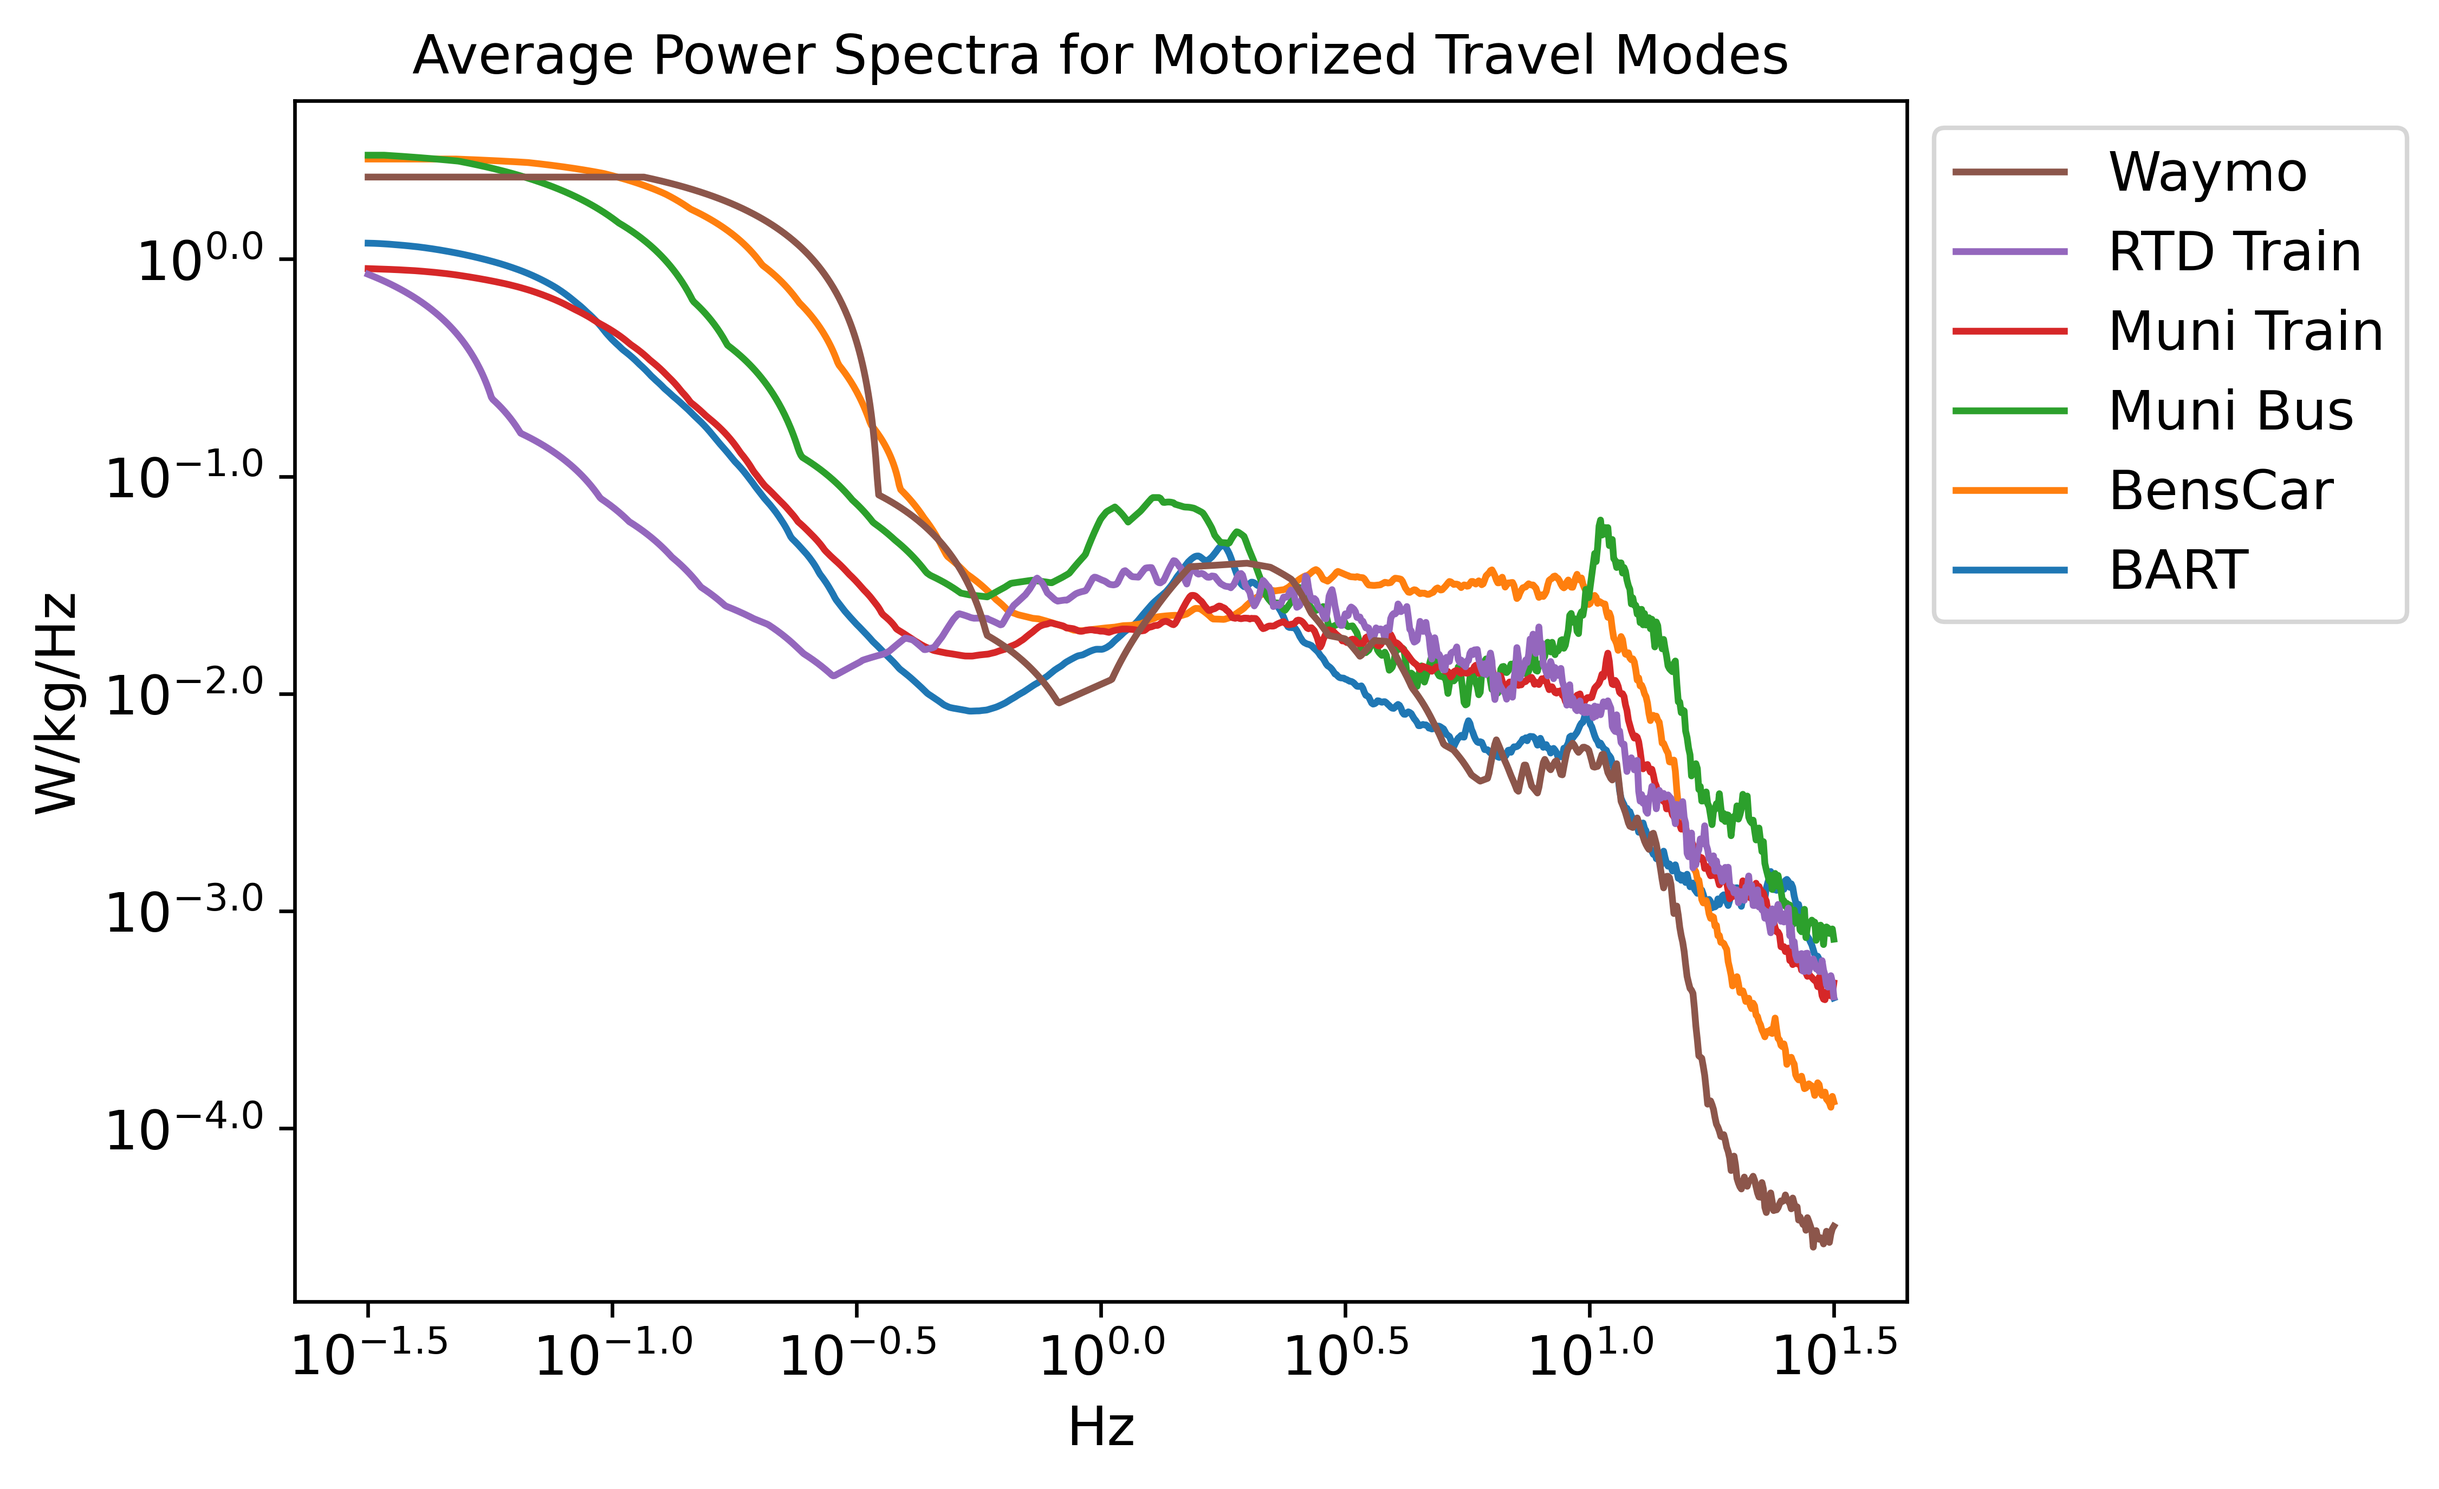
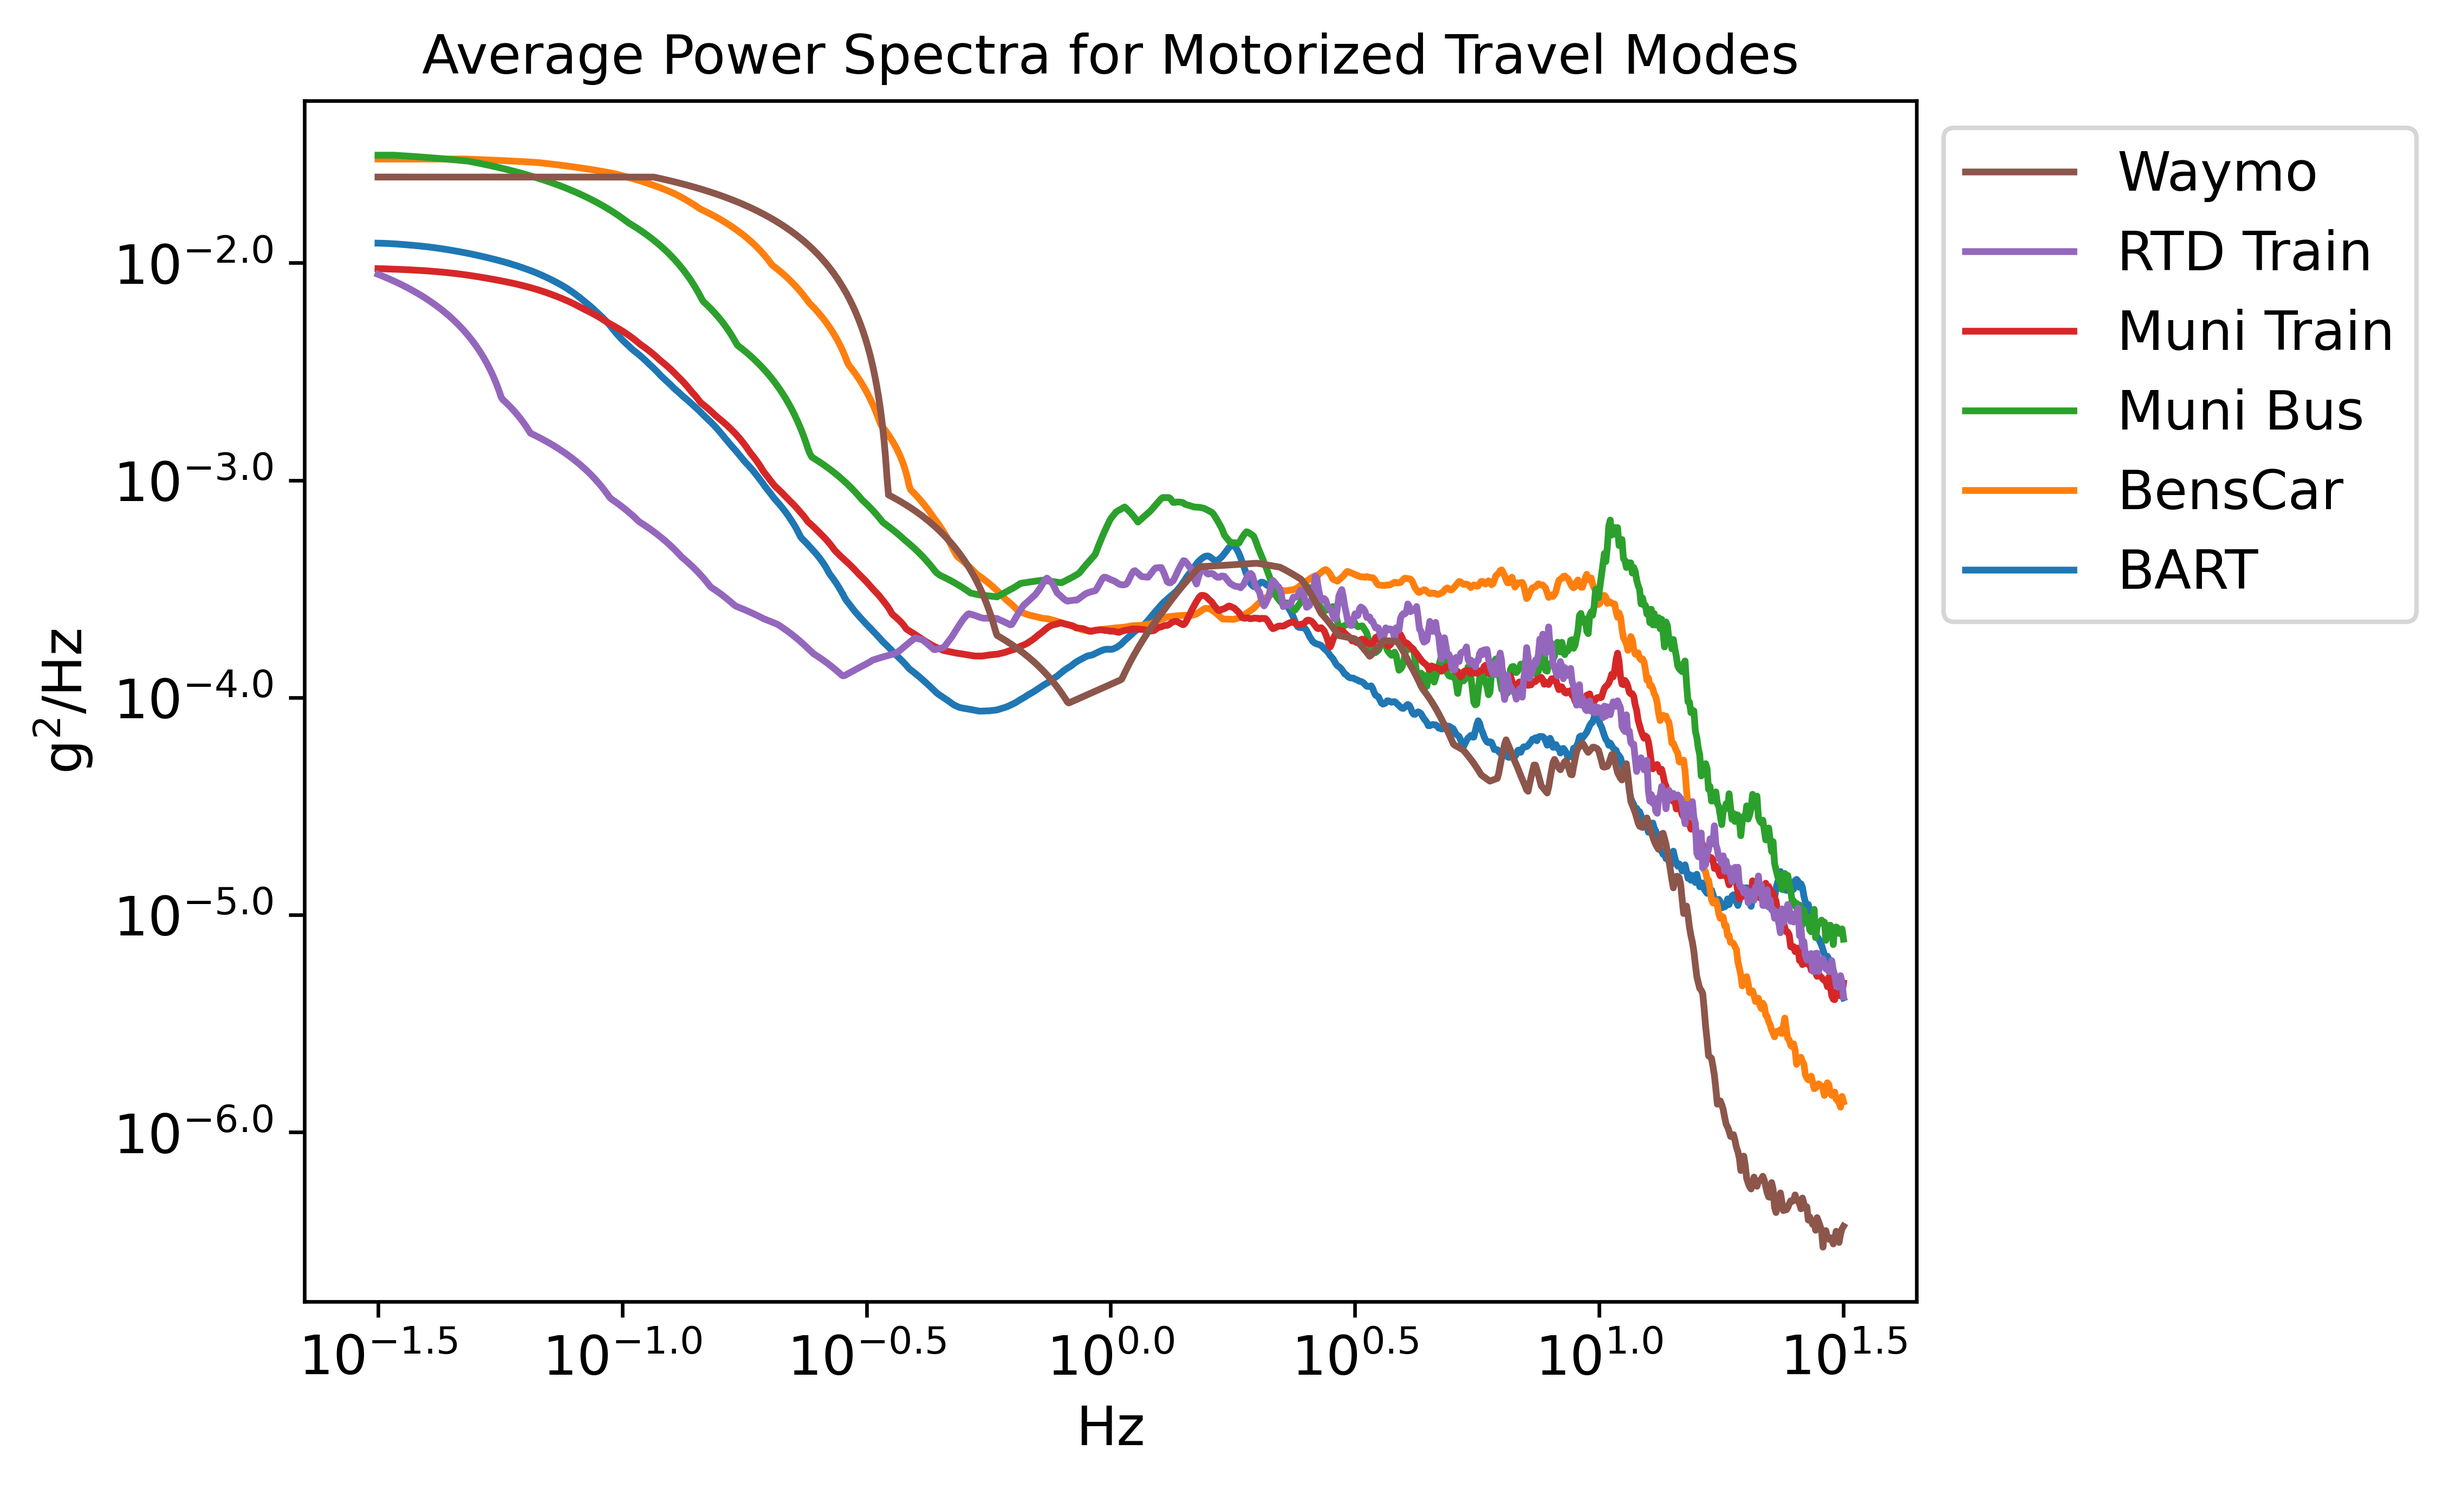
Update units to g^2/Hz

diff --git a/analyze_functionalized.py b/analyze_functionalized.py
@@ -52,7 +52,7 @@ for file in files:
     if not pathlib.Path(outputdir / (title + '.png')).exists():
         ps_smoothed = accelerometers.smooth(ps, smooth_window=smooth_when_plot)
         plt.figure()
-        plot_util.generic_plot(np.log10(ps_smoothed[accelerometers.POWER_LABEL]), kind='line', xlabel='Hz', ylabel='W/kg/Hz', logy=True,
+        plot_util.generic_plot(np.log10(ps_smoothed[accelerometers.POWER_LABEL]), kind='line', xlabel='Hz', ylabel='g$^2$/Hz', logy=True,
                                title=title, output_directory=outputdir)
         plt.close()
 
@@ -68,7 +68,7 @@ for file in files:
     tot_pow_collection[title] = total_pow
     g_collection[title] = df['g-force'].mean()
 
-    print('Total Power: ' + str(round(total_pow, 2)) + ' W/kg')
+    print('Total Power (variance of acceleration): ' + str(round(total_pow, 4)) + ' g^2')
     print('Mean g-force: ' + str(df['g-force'].mean().round(2)) + " g's")
 
 print(len(ps_collection))
@@ -77,10 +77,10 @@ combined = accelerometers.interp_combine(ps_collection)
 
 combined.to_csv(outputdir / 'Combined.csv')
 
-agg_stats_df = pd.DataFrame(index=['Power [W/kg]', 'g-force [-]'], columns=combined.columns)
+agg_stats_df = pd.DataFrame(index=['Power [g^2]', 'g-force [-]'], columns=combined.columns)
 idx = pd.IndexSlice
 for col in combined:
-    agg_stats_df.loc[idx['Power [W/kg]'], idx[col[0], col[1]]] = tot_pow_collection[col[0] + accelerometers.DELIMITTER + col[1]]
+    agg_stats_df.loc[idx['Power [g^2]'], idx[col[0], col[1]]] = tot_pow_collection[col[0] + accelerometers.DELIMITTER + col[1]]
     agg_stats_df.loc[idx['g-force [-]'], idx[col[0], col[1]]] = g_collection[col[0] + accelerometers.DELIMITTER + col[1]]
 print(agg_stats_df.T)
 
@@ -94,7 +94,7 @@ print(combined.groupby('Category', axis=1).count().T[combined.index[0]])
 # Equivalent to geometric rather than arithmetic mean
 # Smooth after averaging
 combined_bycat_log = accelerometers.smooth(combined.map(np.log10).groupby('Category', axis=1).mean(), smooth_when_plot)
-plot_util.generic_plot(combined_bycat_log.rename(np.log10, axis=0), kind='line', xlabel='Hz', ylabel='W/kg/Hz',
+plot_util.generic_plot(combined_bycat_log.rename(np.log10, axis=0), kind='line', xlabel='Hz', ylabel='g$^2$/Hz',
                        output_directory=outputdir, title='Average Power Spectra by Mode', logx=True, logy=True)
 
 grouped_stats = agg_stats_df.T.groupby(level=0).mean()
@@ -106,10 +106,10 @@ z_grouped_stats = (agg_stats_df.T.groupby(level=0).std() / agg_stats_df.T.groupb
 z_grouped_stats.to_csv(outputdir / 'Z for Grouped Agg Stats by Trip.csv')
 print(z_grouped_stats)
 
-# Summary chart using frequency ranges
+# Summary chart: rms acceleration
 pow_seg = accelerometers.pow_range(combined_bycat_log)
-plot_util.generic_plot(pow_seg.map(np.log10).T, kind='bar', ylabel='W/kg', unstacked=True, title='Power by Freq. Range & Mode',
-                       output_directory=outputdir, logy=True, fontsize=9)
+plot_util.generic_plot(pow_seg.map(np.sqrt).T, kind='bar', ylabel='g', unstacked=True, title='RMS Acceleration by Freq. Range & Mode',
+                       output_directory=outputdir, fontsize=9)
 
 # Summarize by mode type
 # Currently used types of modes
@@ -120,15 +120,15 @@ for t in mode_types:
 
     # Separate chart for each type of mode
     plot_util.generic_plot(combined_bycat_log[modes].rename(np.log10, axis=0), kind='line',
-                           xlabel='Hz', ylabel='W/kg/Hz', output_directory=outputdir,
+                           xlabel='Hz', ylabel='g$^2$/Hz', output_directory=outputdir,
                            title='Average Power Spectra for ' + t + ' Travel Modes', logx=True, logy=True)
 
-    plot_util.generic_plot(pow_seg[modes].T, kind='bar', ylabel='W/kg', title='Power by Freq. Range for ' + t + ' Modes',
+    plot_util.generic_plot(pow_seg[modes].T, kind='bar', ylabel='g$^2$', title='Power by Freq. Range for ' + t + ' Modes',
                            output_directory=outputdir)
 
 # Average over mode type
 combined_bymode_type = combined_bycat_log.rename(accelerometers.mode_map, axis=1).groupby('Category', axis=1).mean()
-plot_util.generic_plot(combined_bymode_type.rename(np.log10, axis=0), kind='line', xlabel='Hz', ylabel='W/kg/Hz',
+plot_util.generic_plot(combined_bymode_type.rename(np.log10, axis=0), kind='line', xlabel='Hz', ylabel='g$^2$/Hz',
                        output_directory=outputdir, title='Average Power Spectra by Mode Type',
                        logx=True, logy=True)
 

diff --git a/accelerometers.py b/accelerometers.py
@@ -48,8 +48,8 @@ def ps(data, smooth_window=10):
     # data is a clean dataframe output from clean_file
     # returns dataframe with smoothed power spectrum
     # Index is frequency in Hz
-    # Vals are in units of W/kg/Hz
-    df = data[COORDS].apply(lambda x: np.abs(np.fft.rfft(x))**2)
+    # Vals are in units of g^2/Hz
+    df = data[COORDS].apply(lambda x: np.abs(np.fft.rfft(x/GRAV))**2)
 
     # Determine timestep
     steps = data.index[1:] - data.index[:-1]

diff --git a/writeup/TechNote.md b/writeup/TechNote.md
@@ -17,15 +17,14 @@ where $\vec{a}$ [m s $^{-2}$] is the vector linear acceleration  (over each spat
 
 ## Power spectrum
 
-The [power spectrum](https://en.wikipedia.org/wiki/Spectral_density) $S_\tau(f)$ [W kg $^{-1}$ s] at frequency $f$ for trip $\tau$ is:
+The [power spectrum](https://en.wikipedia.org/wiki/Spectral_density) $S_\tau(f)$ [s] at frequency $f$ for trip $\tau$ is:
 
 ```math
-S_\tau(f) = \frac{\Delta t^2}{T} \left(|\hat{a}_x(f)|^2 + |\hat{a}_y(f)|^2 + |\hat{a}_z(f)|^2\right) _\tau
+S_\tau(f) = \frac{\Delta t^2}{g^2T} \left(|\hat{a}_x(f)|^2 + |\hat{a}_y(f)|^2 + |\hat{a}_z(f)|^2\right) _\tau
 ```
 
 where $\hat{a}_{x,y,z}(f)$ is the Real [Discrete Fourier Transform](https://en.wikipedia.org/wiki/Discrete_Fourier_transform) of the acceleration for each spatial component, $\Delta t$ [s] is the timestep, and $T$ [s] is the trip duration. The Real Discrete Fourier Transform is evaluated using the _numpy_ functions "rfft" and "rfftfreq."
-
-To convert to commonly reported units for vibration analysis, divide this result by $g^2$ (about 100 in these units) to yield units of $\frac{g^2}{Hz}$.
+The units of $S$ can be interpreted as $\frac{g^2}{Hz}$, or contribution of  variance in normalized acceleration per unit frequency.
 
 ## Log-mean power spectrum
 
@@ -39,7 +38,7 @@ where $N_m$ is the number of trips $\tau$ for the mode $m$.
 
 ## Integrated power
 
-The integrated power $P$ [W kg $^{-1}$] from frequency $f_1$ to $f_2$ is:
+The integrated power $P$ [-] from frequency $f_1$ to $f_2$ is:
 
 ```math
 P = \int_{f_1}^{f_2}S(f)df
